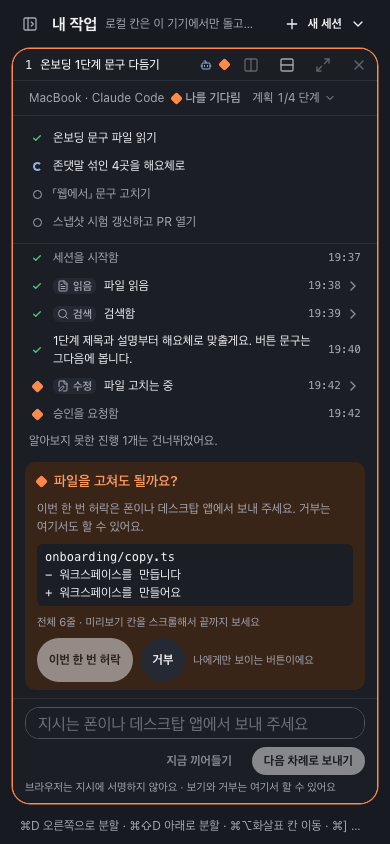
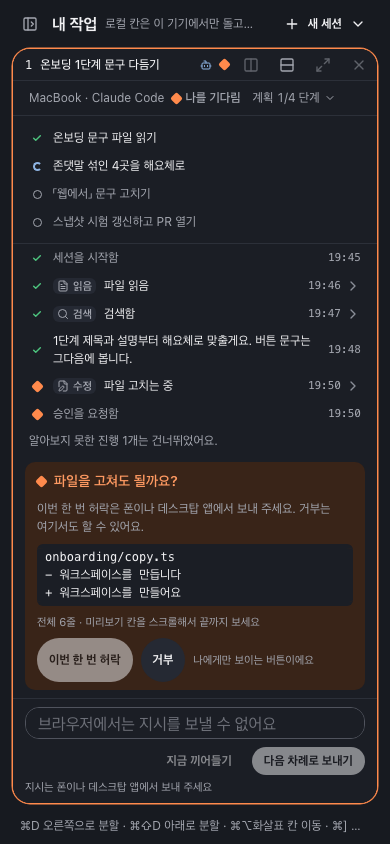
fix(web): #3029 design-review R1 — 서명 요구 뒤 허락 무장 풀기·오류 줄 한 줄로(M1), 답장 힌트는 어디서 보내는지(M2)
- 칸이 안내(`app`)로 바뀌면 허락 무장을 풀고 캐럿을 카드로, 같은 말의 오류 줄은 거둔다.
- 답장 힌트 「지시는 폰이나 데스크탑 앱에서 보내 주세요」, 자리 표시 「브라우저에서는 지시를 보낼 수 없어요」.
- 하네스 `agent-signature`는 제품처럼 403 뒤 플래그를 다시 읽어 안내로 바뀐다(캡처 `signature-required-after-*`).

Claude-Session: https://claude.ai/code/session_01SyTGnhaepMXx2KjrArAKXz

diff --git a/clients/web/src/features/workbench/agent/AgentProgressView.test.tsx b/clients/web/src/features/workbench/agent/AgentProgressView.test.tsx
@@ -18,6 +18,7 @@ import {
   AgentProgressView,
   DECIDE_UNAVAILABLE,
   REPLY_IN_APP_HINT,
+  REPLY_IN_APP_PLACEHOLDER,
   REPLY_UNAVAILABLE,
   type AgentPaneActions,
 } from "./AgentProgressView";
@@ -440,7 +441,8 @@ describe("browser instructs from the app (#3029)", () => {
     // 답장 칸 — 같은 판정
     expect(input.disabled).toBe(app);
     expect(hint.textContent === REPLY_IN_APP_HINT).toBe(app);
-    expect(input.placeholder).toBe(app ? "지시는 폰이나 데스크탑 앱에서 보내 주세요" : "다음 지시를 적어요");
+    expect(hint.textContent === "지시는 폰이나 데스크탑 앱에서 보내 주세요").toBe(app);
+    expect(input.placeholder).toBe(app ? REPLY_IN_APP_PLACEHOLDER : "다음 지시를 적어요");
     // 판정이 두 자리에서 어긋나지 않는다.
     expect(allow.disabled).toBe(input.disabled);
     // 브라우저에서는 무엇을 눌러도 허락·지시가 나가지 않는다.
@@ -491,6 +493,23 @@ describe("browser instructs from the app (#3029)", () => {
     expect(error).not.toContain("이미 닫혔어요");
     expect(q('[data-testid="agent-permission-outcome"]')).toBeNull();
     expect(q('[data-testid="agent-permission"]')!.getAttribute("data-settled")).toBeNull();
+  });
+
+  it("after a 403 device_signature_required the pane turns to the app line: no armed allow, one sentence, caret on the card", async () => {
+    const decide = vi.fn(async () => {
+      throw new ApiError(403, "x", "device_signature_required");
+    });
+    const m = model(events());
+    render(m, { decide, reply: null });
+    await commitAllow();
+    expect(q('[data-testid="agent-permission-error"]')).not.toBeNull();
+    // 소스가 플래그를 다시 읽고 `app`으로 바꾼다.
+    render(m, { decide, reply: null }, "곽성재", false, "app");
+    expect(q('[data-testid="agent-permission-confirm"]')).toBeNull();
+    expect(q('[data-testid="agent-permission-error"]')).toBeNull();
+    expect(q('[data-testid="agent-permission-in-app"]')!.textContent).toBe(ALLOW_IN_APP_LINE);
+    expect((q('[data-testid="agent-permission-reject"]') as HTMLButtonElement).disabled).toBe(false);
+    expect(document.activeElement).toBe(q('[data-testid="agent-permission"]'));
   });
 
   it("a refused instruction says why in the reply hint", async () => {

diff --git a/clients/web/src/features/workbench/agent/agentPaneFixtures.tsx b/clients/web/src/features/workbench/agent/agentPaneFixtures.tsx
@@ -1,4 +1,6 @@
+import { useState } from "react";
 import { ApiError, type WorkSession } from "@momo/core/lib/api";
+import type { InstructFrom } from "@momo/core/features/auth/humanSignature";
 import type { WorkSessionEvent } from "@momo/core/features/work/workSessionModel";
 import { agentPaneModel, type AgentPaneModel } from "@momo/core/features/workbench/agentPane";
 import { AgentProgressView, type AgentPaneActions } from "./AgentProgressView";
@@ -179,6 +181,35 @@ export type AgentFixtureScene =
   /** 허락이 403 `device_signature_required`로 돌아온다(#3029). */
   | "signature";
 
+/**
+ * `signature` 장면: 제품처럼 403 `device_signature_required`를 받으면 플래그를 다시
+ * 읽어 안내로 바뀐다(agentPaneSource `recheck`). 캡처는 오류 직후가 아니라 바뀐 뒤다.
+ */
+function SignatureScene({ model, actions }: { model: AgentPaneModel; actions: AgentPaneActions }) {
+  const [from, setFrom] = useState<InstructFrom>("here");
+  const decide = actions.decide;
+  return (
+    <AgentProgressView
+      model={model}
+      ownerName="곽성재"
+      instructFrom={from}
+      actions={{
+        ...actions,
+        decide: decide
+          ? async (d) => {
+              try {
+                await decide(d);
+              } catch (err) {
+                setTimeout(() => setFrom("app"), 300);
+                throw err;
+              }
+            }
+          : null,
+      }}
+    />
+  );
+}
+
 /** 하네스 장면별 원천. 묶음은 메모리 저장소(캡처는 이 기기 저장소를 건드리지 않는다). */
 export function fixtureAgentSource(scene: AgentFixtureScene): AgentPaneSource {
   T0 = Date.now() - (scene === "lapsed" ? 16 : 6) * MINUTE;
@@ -232,6 +263,7 @@ export function fixtureAgentSource(scene: AgentFixtureScene): AgentPaneSource {
     },
     render: (id) => {
       const m = models.get(id);
+      if (m && scene === "signature") return <SignatureScene model={m} actions={actions} />;
       return m ? (
         <AgentProgressView
           model={m}
